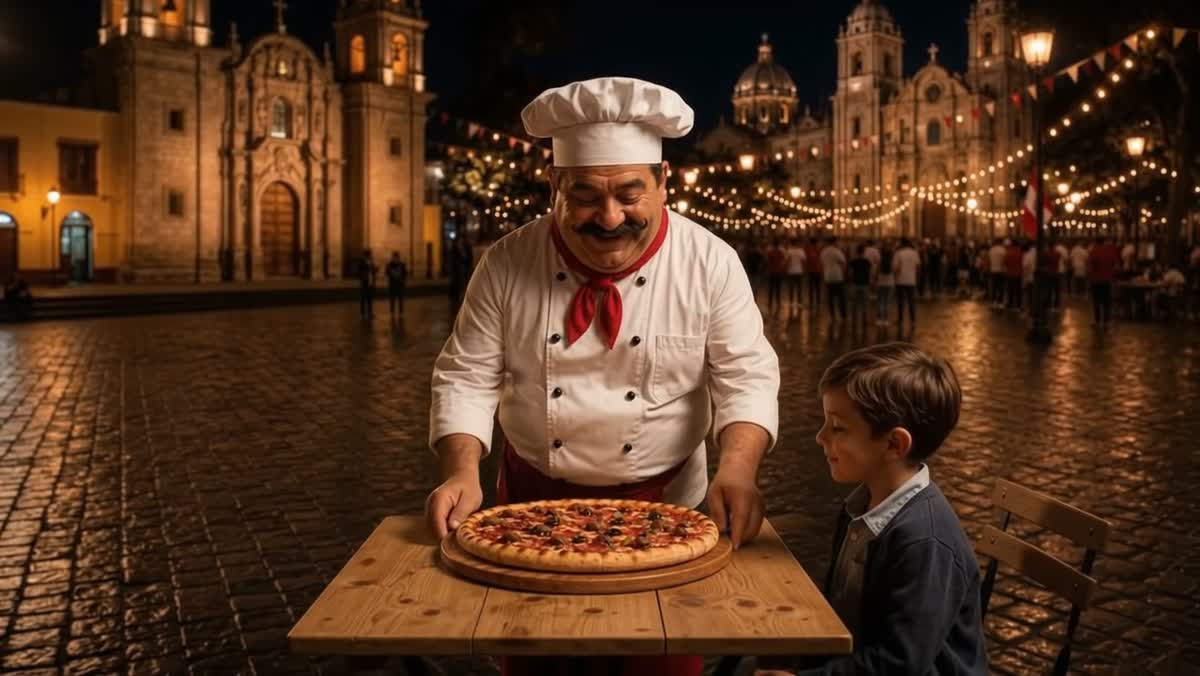
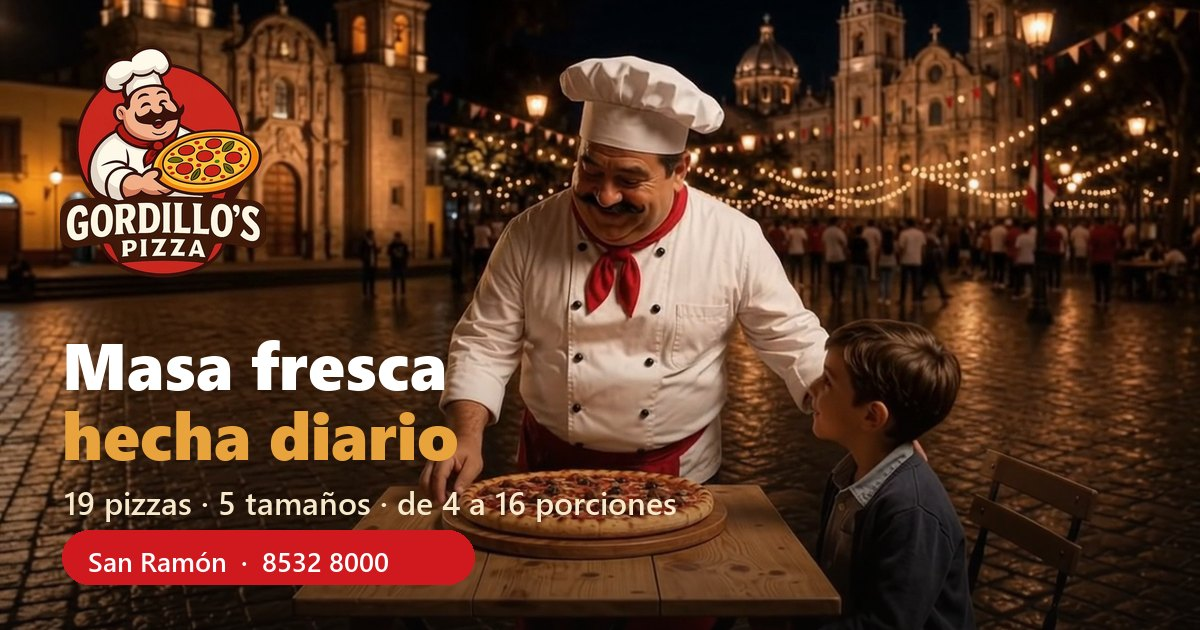
feat(og): la tarjeta para compartir deja de ser un frame suelto
Para una pizzeria de pueblo WhatsApp ES el canal: el enlace se comparte por
ahi, no por buscador. La imagen anterior era un fotograma del video, bonito
pero mudo — ni marca ni telefono ni que vendemos.

Ahora es una tarjeta: el momento en que el chef sirve la pizza, con el logo,
"Masa fresca hecha diario", las tres cifras del menu y el telefono en una
pastilla roja. Quien recibe el enlace ya sabe que es y a donde llamar sin
abrir nada.

Ademas arregla un desajuste real: el archivo media 1200x676 y el marcado
declaraba 675. Cuando lo declarado no coincide con lo real, el rastreador
puede descartar la imagen y mostrar solo el dominio — que es exactamente lo
que se veia al compartir. Ahora son 1200x630 en los dos lados, la medida
canonica de Open Graph.

diff --git a/src/app/layout.tsx b/src/app/layout.tsx
@@ -59,12 +59,18 @@ export const metadata: Metadata = {
     url: NEGOCIO.sitio,
     title: `${NEGOCIO.nombre} — Pizza en San Ramón`,
     description: `${NEGOCIO.promesa}. ${PIZZAS.length} pizzas, cinco tamaños, de 4 a 16 porciones.`,
+    /*
+      1200x630 es la medida canonica de Open Graph (1,91:1) y la que WhatsApp
+      y Facebook muestran a lo ancho. Antes decia 675 mientras el archivo media
+      676: un desajuste entre lo declarado y lo real es de las cosas que hacen
+      que un rastreador descarte la imagen y muestre solo el dominio.
+    */
     images: [
       {
         url: "/og.jpg",
         width: 1200,
-        height: 675,
-        alt: `Pizza recién salida del horno en ${NEGOCIO.nombre}, San Ramón`,
+        height: 630,
+        alt: `El chef de ${NEGOCIO.nombre} sirviendo una pizza en San Ramón`,
       },
     ],
   },

diff --git a/CLAUDE.md b/CLAUDE.md
@@ -123,6 +123,27 @@ y el pixel se descarta; si quedara algun pixel OPACO claro pegado al borde se
 come en una pasada (en este logo no hizo falta: la contaminacion estaba toda en
 el alfa parcial).
 
+## La tarjeta para compartir (og.jpg)
+
+Para una pizzeria de pueblo, **WhatsApp es el canal**: el enlace se comparte por
+ahi, no por buscador. Asi que `og.jpg` no es un frame suelto del video, es una
+tarjeta: el momento en que el chef sirve la pizza, con el logo, "Masa fresca
+hecha diario", las tres cifras y el telefono en una pastilla roja. Quien la
+recibe ya sabe que es y a donde llamar sin abrir nada.
+
+- **1200x630**, la medida canonica de Open Graph (1,91:1). Antes el archivo
+  media 1200x676 mientras el marcado declaraba 675 — y un desajuste entre lo
+  declarado y lo real hace que el rastreador descarte la imagen y muestre solo
+  el dominio.
+- El velo lateral esta calculado para que el texto se lea sobre CUALQUIER frame,
+  no solo sobre este.
+
+**WhatsApp cachea la vista previa por URL y por varios dias.** Si se cambia la
+imagen, el enlace sigue mostrando la vieja. Se fuerza el refresco en el
+Sharing Debugger de Facebook (developers.facebook.com/tools/debug) con "Scrape
+Again" — comparten infraestructura. Compartir la URL con `?v=2` tambien sirve
+como prueba, porque es otra llave de cache.
+
 ## Barra social
 
 Riel fijo al borde derecho con WhatsApp, Instagram, Facebook, Como llegar y
